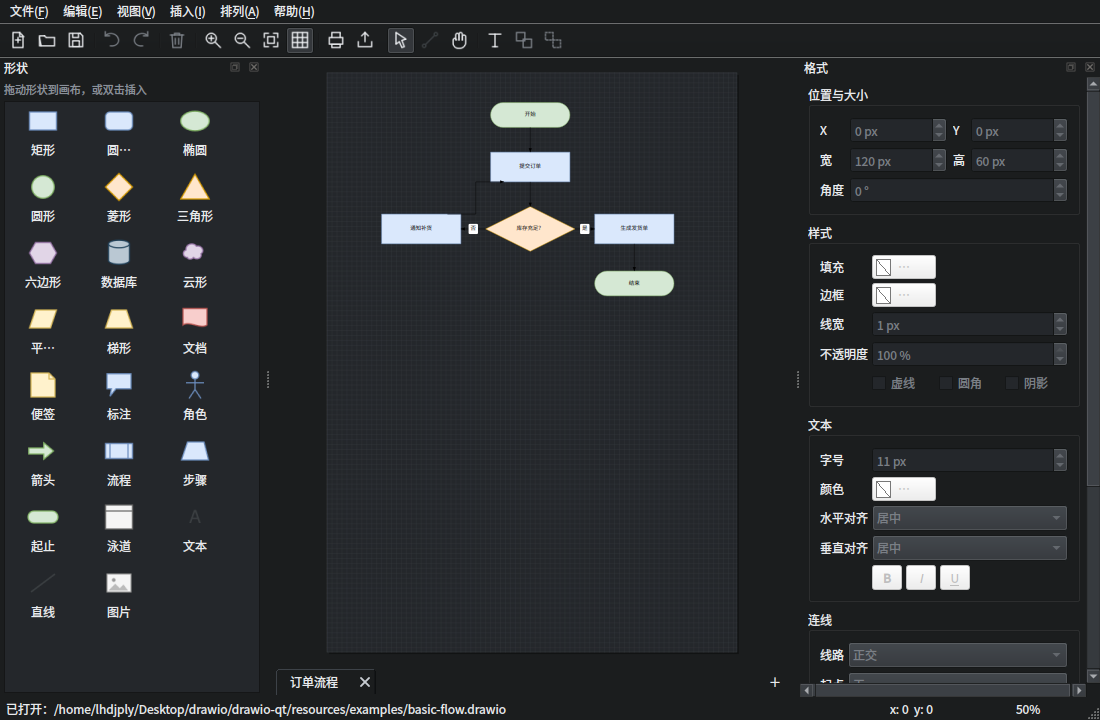
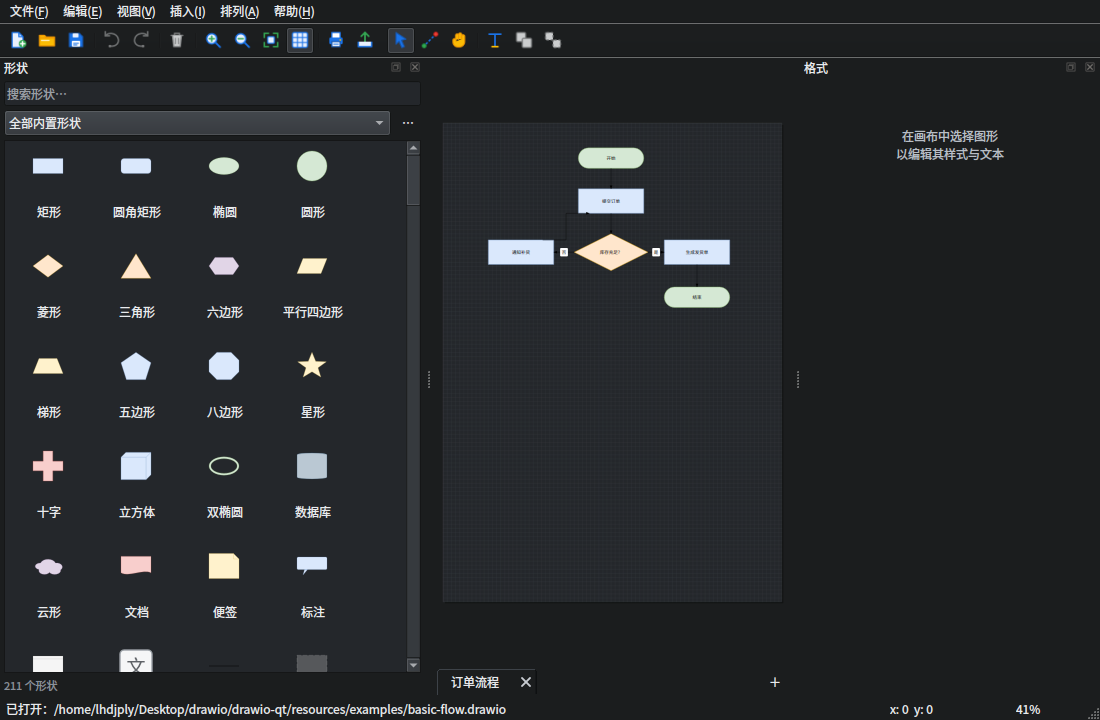
style: 工具栏图标彩色化并优化右侧格式面板
- 重绘 19 个工具栏图标，使用蓝色/绿色/橙色/红色等配色，
  选中与禁用状态仍由 Fusion 样式自动区分
- 格式面板改为圆角卡片式分组，收紧内边距与行距
- 未选择对象时显示提示文案并隐藏各分组；选中顶点时隐藏“连线”分组
- 表单控件恢复原生绘制，修复下拉/微调按钮的异常箭头
- 排除 QTextDocument 后同步更新深浅色截图

diff --git a/src/ui/FormatPanel.cpp b/src/ui/FormatPanel.cpp
@@ -174,12 +174,18 @@ void FormatPanel::buildUi()
     layout->setSpacing(8);
     scroll->setWidget(content);
 
+    m_hint = new QLabel(QStringLiteral("在画布中选择图形\n以编辑其样式与文本"), content);
+    m_hint->setAlignment(Qt::AlignCenter);
+    m_hint->setWordWrap(true);
+    m_hint->setMinimumHeight(120);
+    layout->addWidget(m_hint);
+
     // --- geometry ---------------------------------------------------------
     auto *geometryGroup = new QGroupBox(QStringLiteral("位置与大小"), content);
     geometryGroup->setSizePolicy(QSizePolicy::Preferred, QSizePolicy::Maximum);
     auto *geometryGrid = new QGridLayout(geometryGroup);
     geometryGrid->setHorizontalSpacing(6);
-    geometryGrid->setVerticalSpacing(4);
+    geometryGrid->setVerticalSpacing(2);
 
     auto makeSpin = [&](double min, double max, const QString &suffix)
     {
@@ -363,7 +369,7 @@ void FormatPanel::buildUi()
     m_italic = makeToggle(QStringLiteral("I"), QStringLiteral("斜体"), textGroup);
     m_underline = makeToggle(QStringLiteral("U"), QStringLiteral("下划线"), textGroup);
     m_bold->setStyleSheet(QStringLiteral("font-weight: bold;"));
-    m_italic->setStyleSheet(QStringLiteral("font-style: italic;"));
+
     m_underline->setStyleSheet(QStringLiteral("text-decoration: underline;"));
     formatRow->addWidget(m_bold);
     formatRow->addWidget(m_italic);
@@ -421,6 +427,7 @@ void FormatPanel::buildUi()
 
     // --- connectors -------------------------------------------------------
     auto *edgeGroup = new QGroupBox(QStringLiteral("连线"), content);
+    m_edgeGroup = edgeGroup;
     edgeGroup->setSizePolicy(QSizePolicy::Preferred, QSizePolicy::Maximum);
     auto *edgeForm = new QFormLayout(edgeGroup);
     edgeForm->setSpacing(4);
@@ -483,6 +490,21 @@ void FormatPanel::buildUi()
     // --- arrange ----------------------------------------------------------
     layout->addStretch(1);
 
+    for (QGroupBox *group : findChildren<QGroupBox *>())
+    {
+        m_groups.append(group);
+    }
+
+    if (m_hint != nullptr)
+    {
+        m_hint->setVisible(true);
+    }
+
+    for (QGroupBox *group : m_groups)
+    {
+        group->setVisible(false);
+    }
+
     // Sensible values while nothing is selected.
     m_updating = true;
     m_x->setValue(0);
@@ -521,11 +543,39 @@ void FormatPanel::updateFromSelection()
 {
     if (m_view == nullptr)
     {
+        if (m_hint != nullptr)
+        {
+            m_hint->setVisible(true);
+        }
+
+        for (QGroupBox *group : m_groups)
+        {
+            group->setVisible(false);
+        }
+
         return;
     }
 
     const QVector<Cell *> cells = m_view->selectedCellObjects();
     const bool hasSelection = !cells.isEmpty();
+
+    if (m_hint != nullptr)
+    {
+        m_hint->setVisible(!hasSelection);
+    }
+
+    for (QGroupBox *group : m_groups)
+    {
+        group->setVisible(hasSelection);
+    }
+
+    if (!hasSelection)
+    {
+        m_selectedId.clear();
+        return;
+    }
+
+    compactGroups();
     bool hasVertex = false;
     bool hasEdge = false;
 
@@ -537,10 +587,9 @@ void FormatPanel::updateFromSelection()
 
     updateEnabled(hasSelection, hasVertex, hasEdge);
 
-    if (!hasSelection)
+    if (m_edgeGroup != nullptr)
     {
-        m_selectedId.clear();
-        return;
+        m_edgeGroup->setVisible(hasSelection && hasEdge);
     }
 
     Cell *cell = cells.first();
@@ -597,6 +646,53 @@ void FormatPanel::updateFromSelection()
     m_endArrow->setCurrentIndex(qMax(0, m_endArrow->findData(endArrow)));
 
     m_updating = false;
+}
+
+void FormatPanel::applyTheme(bool dark)
+{
+    m_dark = dark;
+
+    if (dark)
+    {
+        setStyleSheet(QStringLiteral(
+            "QGroupBox { border: 1px solid #3a3f45; border-radius: 8px;"
+            " margin-top: 8px; padding: 8px 8px 4px 8px; font-weight: 600; }"
+            "QGroupBox::title { subcontrol-origin: margin; left: 12px; padding: 0 4px;"
+            " color: #b8bec6; }"
+            "QLabel { color: #b8bec6; font-size: 12px; }"
+            "QToolButton { border: 1px solid transparent; border-radius: 4px;"
+            " padding: 3px 7px; }"
+            "QToolButton:checked { background: #1a3a5c; color: #8ab4f8;"
+            " border-color: #8ab4f8; }"));
+    }
+    else
+    {
+        setStyleSheet(QStringLiteral(
+            "QGroupBox { border: 1px solid #e3e6e9; border-radius: 8px;"
+            " margin-top: 8px; padding: 8px 8px 4px 8px; font-weight: 600; }"
+            "QGroupBox::title { subcontrol-origin: margin; left: 12px; padding: 0 4px;"
+            " color: #5f6368; }"
+            "QLabel { color: #5f6368; font-size: 12px; }"
+            "QToolButton { border: 1px solid transparent; border-radius: 4px;"
+            " padding: 3px 7px; }"
+            "QToolButton:checked { background: #e8f0fe; color: #1a73e8;"
+            " border-color: #1a73e8; }"));
+    }
+
+    compactGroups();
+}
+
+void FormatPanel::compactGroups()
+{
+    // QGroupBox stretches when the surrounding column is taller than its
+    // content, which spread the form rows apart. A fixed vertical policy keeps
+    // every section exactly as tall as its layout needs.
+    for (QGroupBox *group : m_groups)
+    {
+        group->setSizePolicy(QSizePolicy::Preferred, QSizePolicy::Fixed);
+        group->setMaximumHeight(QWIDGETSIZE_MAX);
+        group->updateGeometry();
+    }
 }
 
 void FormatPanel::updateEnabled(bool hasSelection, bool hasVertex, bool hasEdge)

diff --git a/src/ui/MainWindow.cpp b/src/ui/MainWindow.cpp
@@ -65,37 +65,6 @@ QIcon iconFor(const QString &name)
     return QIcon(QStringLiteral(":/icons/%1.svg").arg(name));
 }
 
-/// Rasterises a monochrome toolbar glyph and tints it, so the icons stay
-/// readable when the dark palette is active.
-QPixmap tintedGlyph(const QString &name, int size, const QColor &color)
-{
-    QPixmap pixmap(QStringLiteral(":/icons/%1.svg").arg(name));
-
-    if (pixmap.isNull())
-    {
-        return pixmap;
-    }
-
-    pixmap = pixmap.scaled(size, size, Qt::KeepAspectRatio, Qt::SmoothTransformation);
-
-    QPainter painter(&pixmap);
-    painter.setCompositionMode(QPainter::CompositionMode_SourceIn);
-    painter.fillRect(pixmap.rect(), color);
-    painter.end();
-
-    return pixmap;
-}
-
-QIcon themedIcon(const QString &name, bool dark)
-{
-    const QColor normal = dark ? QColor(0xE8, 0xEA, 0xED) : QColor(0x3C, 0x40, 0x43);
-    const QColor disabled = dark ? QColor(0x7A, 0x7F, 0x86) : QColor(0xB0, 0xB4, 0xB9);
-
-    QIcon icon;
-    icon.addPixmap(tintedGlyph(name, 20, normal), QIcon::Normal);
-    icon.addPixmap(tintedGlyph(name, 20, disabled), QIcon::Disabled);
-    return icon;
-}
 
 } // namespace
 
@@ -957,11 +926,11 @@ void MainWindow::createDocks()
     formatDock->setObjectName(QStringLiteral("formatDock"));
     formatDock->setWidget(m_formatPanel);
     formatDock->setAllowedAreas(Qt::LeftDockWidgetArea | Qt::RightDockWidgetArea);
-    formatDock->setMinimumWidth(300);
+    formatDock->setMinimumWidth(290);
     addDockWidget(Qt::RightDockWidgetArea, formatDock);
 
-    m_formatPanel->setMinimumWidth(280);
-    resizeDocks({formatDock}, {300}, Qt::Horizontal);
+    m_formatPanel->setMinimumWidth(270);
+    resizeDocks({formatDock}, {290}, Qt::Horizontal);
 
     connect(m_toolbox, &ShapeToolbox::shapeActivated, this,
             [this](const ShapeDefinition &definition)
@@ -1627,6 +1596,12 @@ void MainWindow::applyTheme(const QString &theme)
     m_darkAction->setChecked(dark);
     m_view->setDarkTheme(dark);
     UiTheme::applyColorScheme(theme);
+
+    if (m_formatPanel != nullptr)
+    {
+        m_formatPanel->applyTheme(dark);
+    }
+
     updateActionIcons();
     updateTabStyle();
 
@@ -1640,7 +1615,6 @@ void MainWindow::updateActionIcons()
         return;
     }
 
-    const bool dark = m_view->isDarkTheme();
     const QVector<QPair<QAction *, QString>> icons = {
         {m_newAction, QStringLiteral("new")},
         {m_openAction, QStringLiteral("open")},
@@ -1666,7 +1640,7 @@ void MainWindow::updateActionIcons()
     {
         if (entry.first != nullptr)
         {
-            entry.first->setIcon(themedIcon(entry.second, dark));
+            entry.first->setIcon(QIcon(QStringLiteral(":/icons/%1.svg").arg(entry.second)));
         }
     }
 }

diff --git a/src/ui/FormatPanel.h b/src/ui/FormatPanel.h
@@ -1,9 +1,12 @@
 #pragma once
 
+#include <QVector>
 #include <QWidget>
 
 class QCheckBox;
 class QComboBox;
+class QGroupBox;
+class QLabel;
 class QDoubleSpinBox;
 class QSpinBox;
 class QToolButton;
@@ -25,6 +28,8 @@ public:
 
     void setView(DiagramView *view);
     void updateFromSelection();
+    void applyTheme(bool dark);
+    void compactGroups();
 
 private:
     void buildUi();
@@ -32,6 +37,8 @@ private:
 
     DiagramView *m_view = nullptr;
     bool m_updating = false;
+    bool m_dark = false;
+    QVector<QGroupBox *> m_groups;
 
     QDoubleSpinBox *m_x = nullptr;
     QDoubleSpinBox *m_y = nullptr;
@@ -56,6 +63,9 @@ private:
     ColorButton *m_fill = nullptr;
     ColorButton *m_stroke = nullptr;
     ColorButton *m_fontColor = nullptr;
+
+    QLabel *m_hint = nullptr;
+    QGroupBox *m_edgeGroup = nullptr;
 
     QToolButton *m_bold = nullptr;
     QToolButton *m_italic = nullptr;
